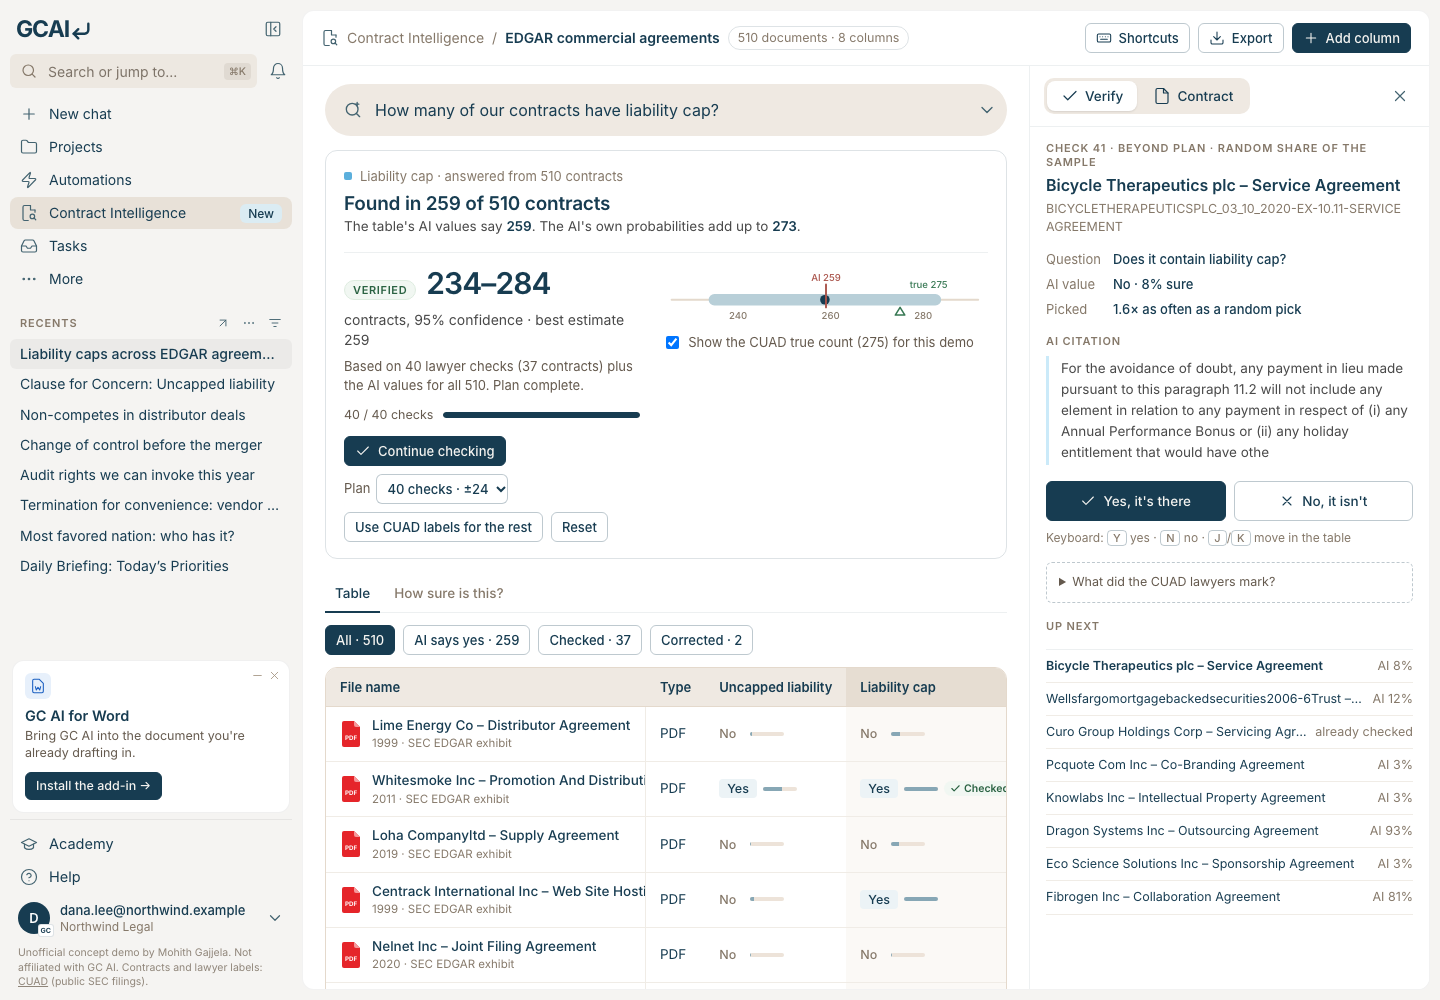
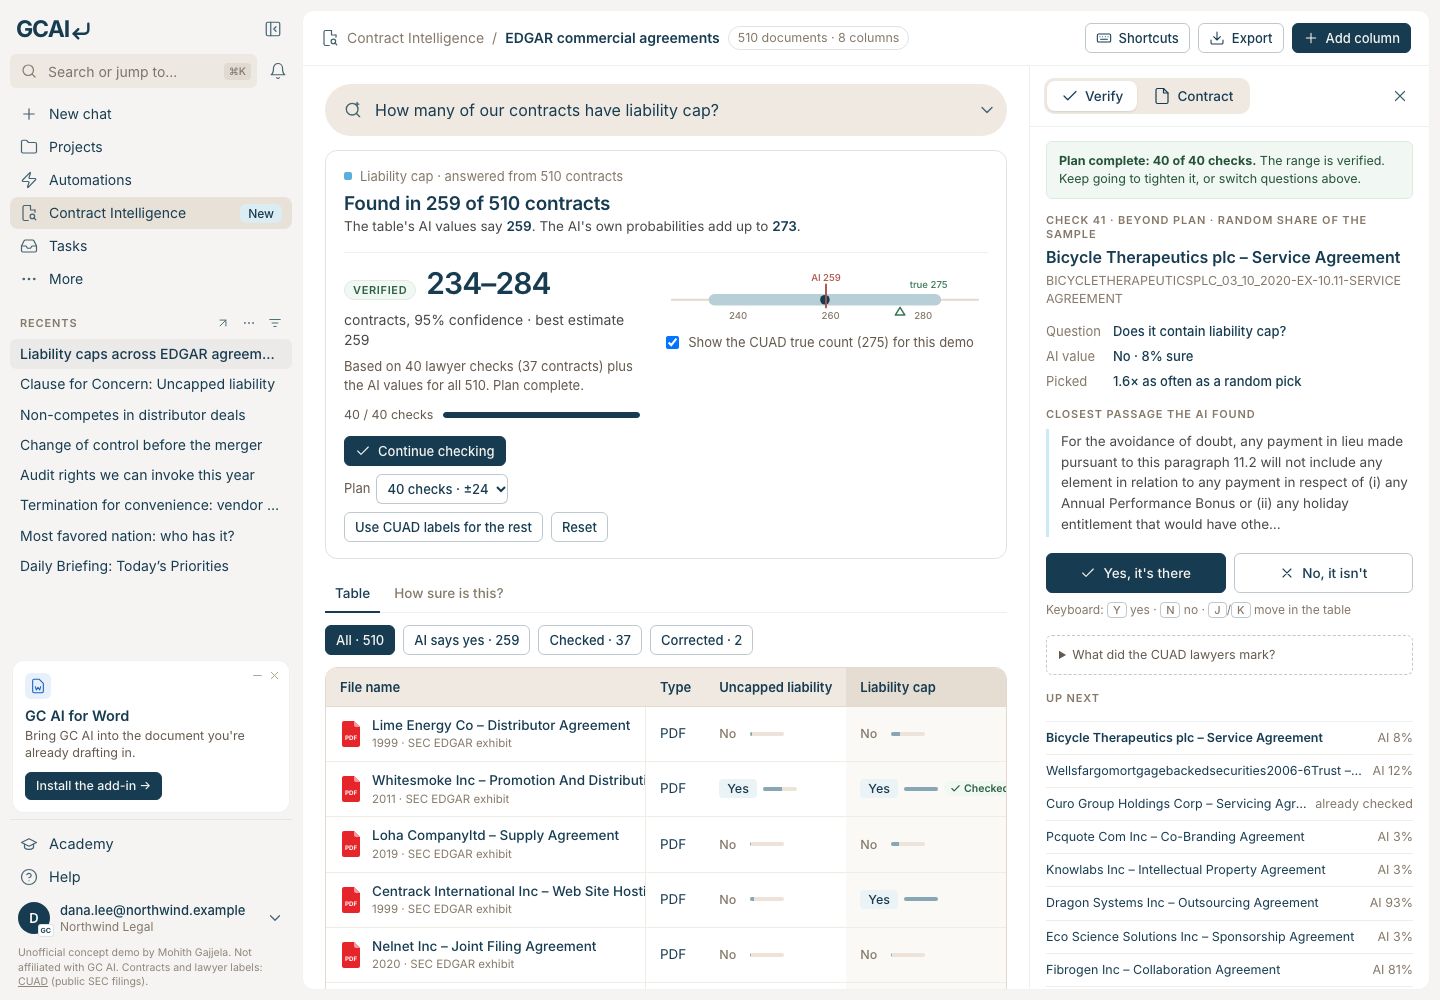
Plan-complete state, passage labels

Changed region(s): [[0.7188, 0.124, 1.0, 0.992], [0.9375, 0.961, 0.9688, 0.992]]

diff --git a/app.js b/app.js
@@ -170,18 +170,19 @@ function drawerHtml(mode, docSel) {
     const i = docSel ?? progress().next ?? 0, d = VAULT.docs[i];
     return `${head}<div class="dr-b"><h3>${esc(d.name)}</h3><div class="meta">${esc(d.title)}</div>
       <div class="kv">${KEYS.map(k => { const c = VAULT.columns[k].cells[i], lab = (S.labels[k] || {})[i]; return `<span>${esc(VAULT.columns[k].label)}</span><b style="font-weight:500">${c.p >= .5 ? 'Yes' : 'No'} <small style="color:#857869;font-weight:400">AI ${(c.p * 100).toFixed(0)}%${lab !== undefined ? ` · you: ${lab ? 'Yes' : 'No'}` : ''}</small></b>`; }).join('')}</div>
-      <div class="lbl">AI citation · ${esc(VAULT.columns[S.col].label)}</div><p class="quote">${esc(VAULT.columns[S.col].cells[i].q)}</p>
+      <div class="lbl">${VAULT.columns[S.col].cells[i].p >= .5 ? 'AI citation' : 'Closest passage the AI found'} · ${esc(VAULT.columns[S.col].label)}</div><p class="quote">${esc(VAULT.columns[S.col].cells[i].q)}${VAULT.columns[S.col].cells[i].q.length >= 240 ? '…' : ''}</p>
       <button class="btn sm" style="margin-top:14px" data-jump="${i}">Check this contract for ${esc(VAULT.columns[S.col].label.toLowerCase())}</button></div>`;
   }
   const pr = progress(), est = estimate(), cs = cells();
   if (pr.next === null) return `${head}<div class="dr-b"><h3>Queue finished</h3><p class="meta">All ${QUEUE_LEN} queued checks are done.</p></div>`;
   const i = (R.q.jump !== undefined ? +R.q.jump : pr.next), c = cs[i], d = VAULT.docs[i];
   const L = labelsOf(), upcoming = queue().draws.slice(pr.m, pr.m + 8);
-  return `${head}<div class="dr-b">
+  const doneBanner = pr.m >= est.plan && R.q.jump === undefined ? `<div class="reveal" style="margin:0 0 14px;border-style:solid;background:#f1f7f2;border-color:#deece0;color:#235337"><b style="color:#235337">Plan complete: ${est.plan} of ${est.plan} checks.</b> The range is verified. Keep going to tighten it, or switch questions above.</div>` : '';
+  return `${head}<div class="dr-b">${doneBanner}
     <div class="lbl" style="margin-top:0">Check ${pr.m + 1}${pr.m + 1 <= est.plan ? ' of ' + est.plan : ' · beyond plan'} · ${c.p > .15 && c.p < .85 ? 'picked because the AI is unsure' : 'random share of the sample'}</div>
     <h3 style="margin-top:6px">${esc(d.name)}</h3><div class="meta">${esc(d.title)}</div>
     <div class="kv"><span>Question</span><b style="font-weight:500">Does it contain ${esc(VAULT.columns[S.col].label.toLowerCase())}?</b><span>AI value</span><b style="font-weight:500">${c.p >= .5 ? 'Yes' : 'No'} · ${(c.p * 100).toFixed(0)}% sure</b><span>Picked</span><b style="font-weight:500">${(queue().pi[i] * cs.length).toFixed(1)}× as often as a random pick</b></div>
-    <div class="lbl">AI citation</div><p class="quote">${esc(c.q)}</p>
+    <div class="lbl">${c.p >= .5 ? 'AI citation' : 'Closest passage the AI found'}</div><p class="quote">${esc(c.q)}${c.q.length >= 240 ? '…' : ''}</p>
     <div class="decide"><button class="btn pri" data-ans="1"><svg viewBox="0 0 24 24"><path d="M20 6 9 17l-5-5"/></svg>Yes, it's there</button><button class="btn" data-ans="0"><svg viewBox="0 0 24 24"><path d="M18 6 6 18M6 6l12 12"/></svg>No, it isn't</button></div>
     <div class="hint">Keyboard: <kbd>Y</kbd> yes · <kbd>N</kbd> no · <kbd>J</kbd>/<kbd>K</kbd> move in the table</div>
     <details class="reveal"><summary>What did the CUAD lawyers mark?</summary><p style="margin:8px 0 0"><b>${c.y ? 'Present' : 'Not present'}</b>${c.t ? `: “${esc(c.t)}”` : ''}</p></details>
